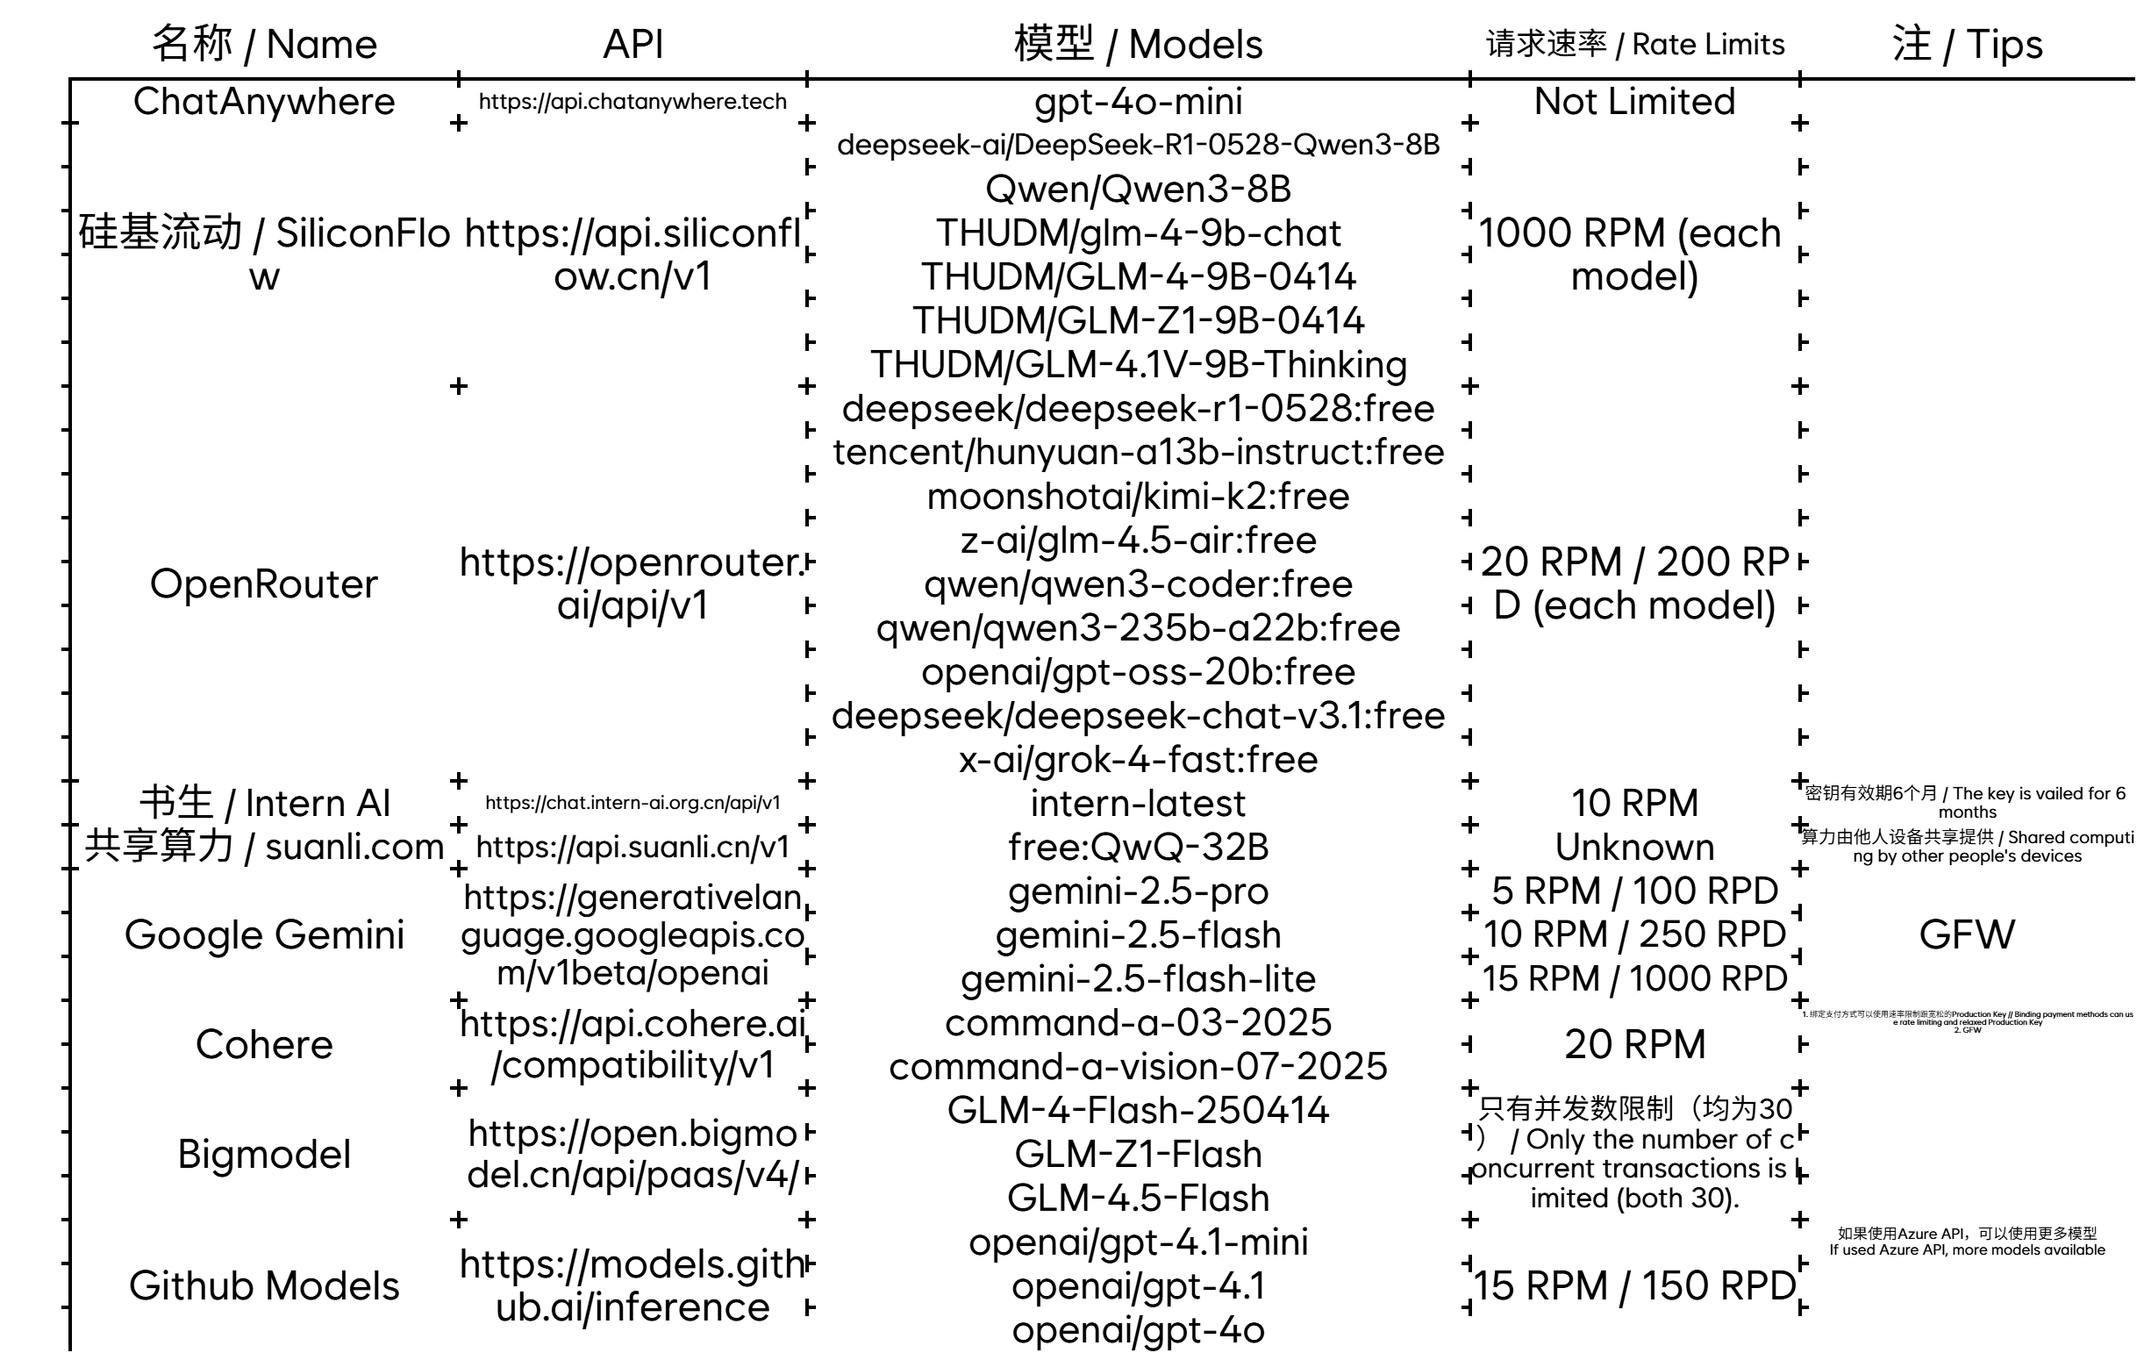
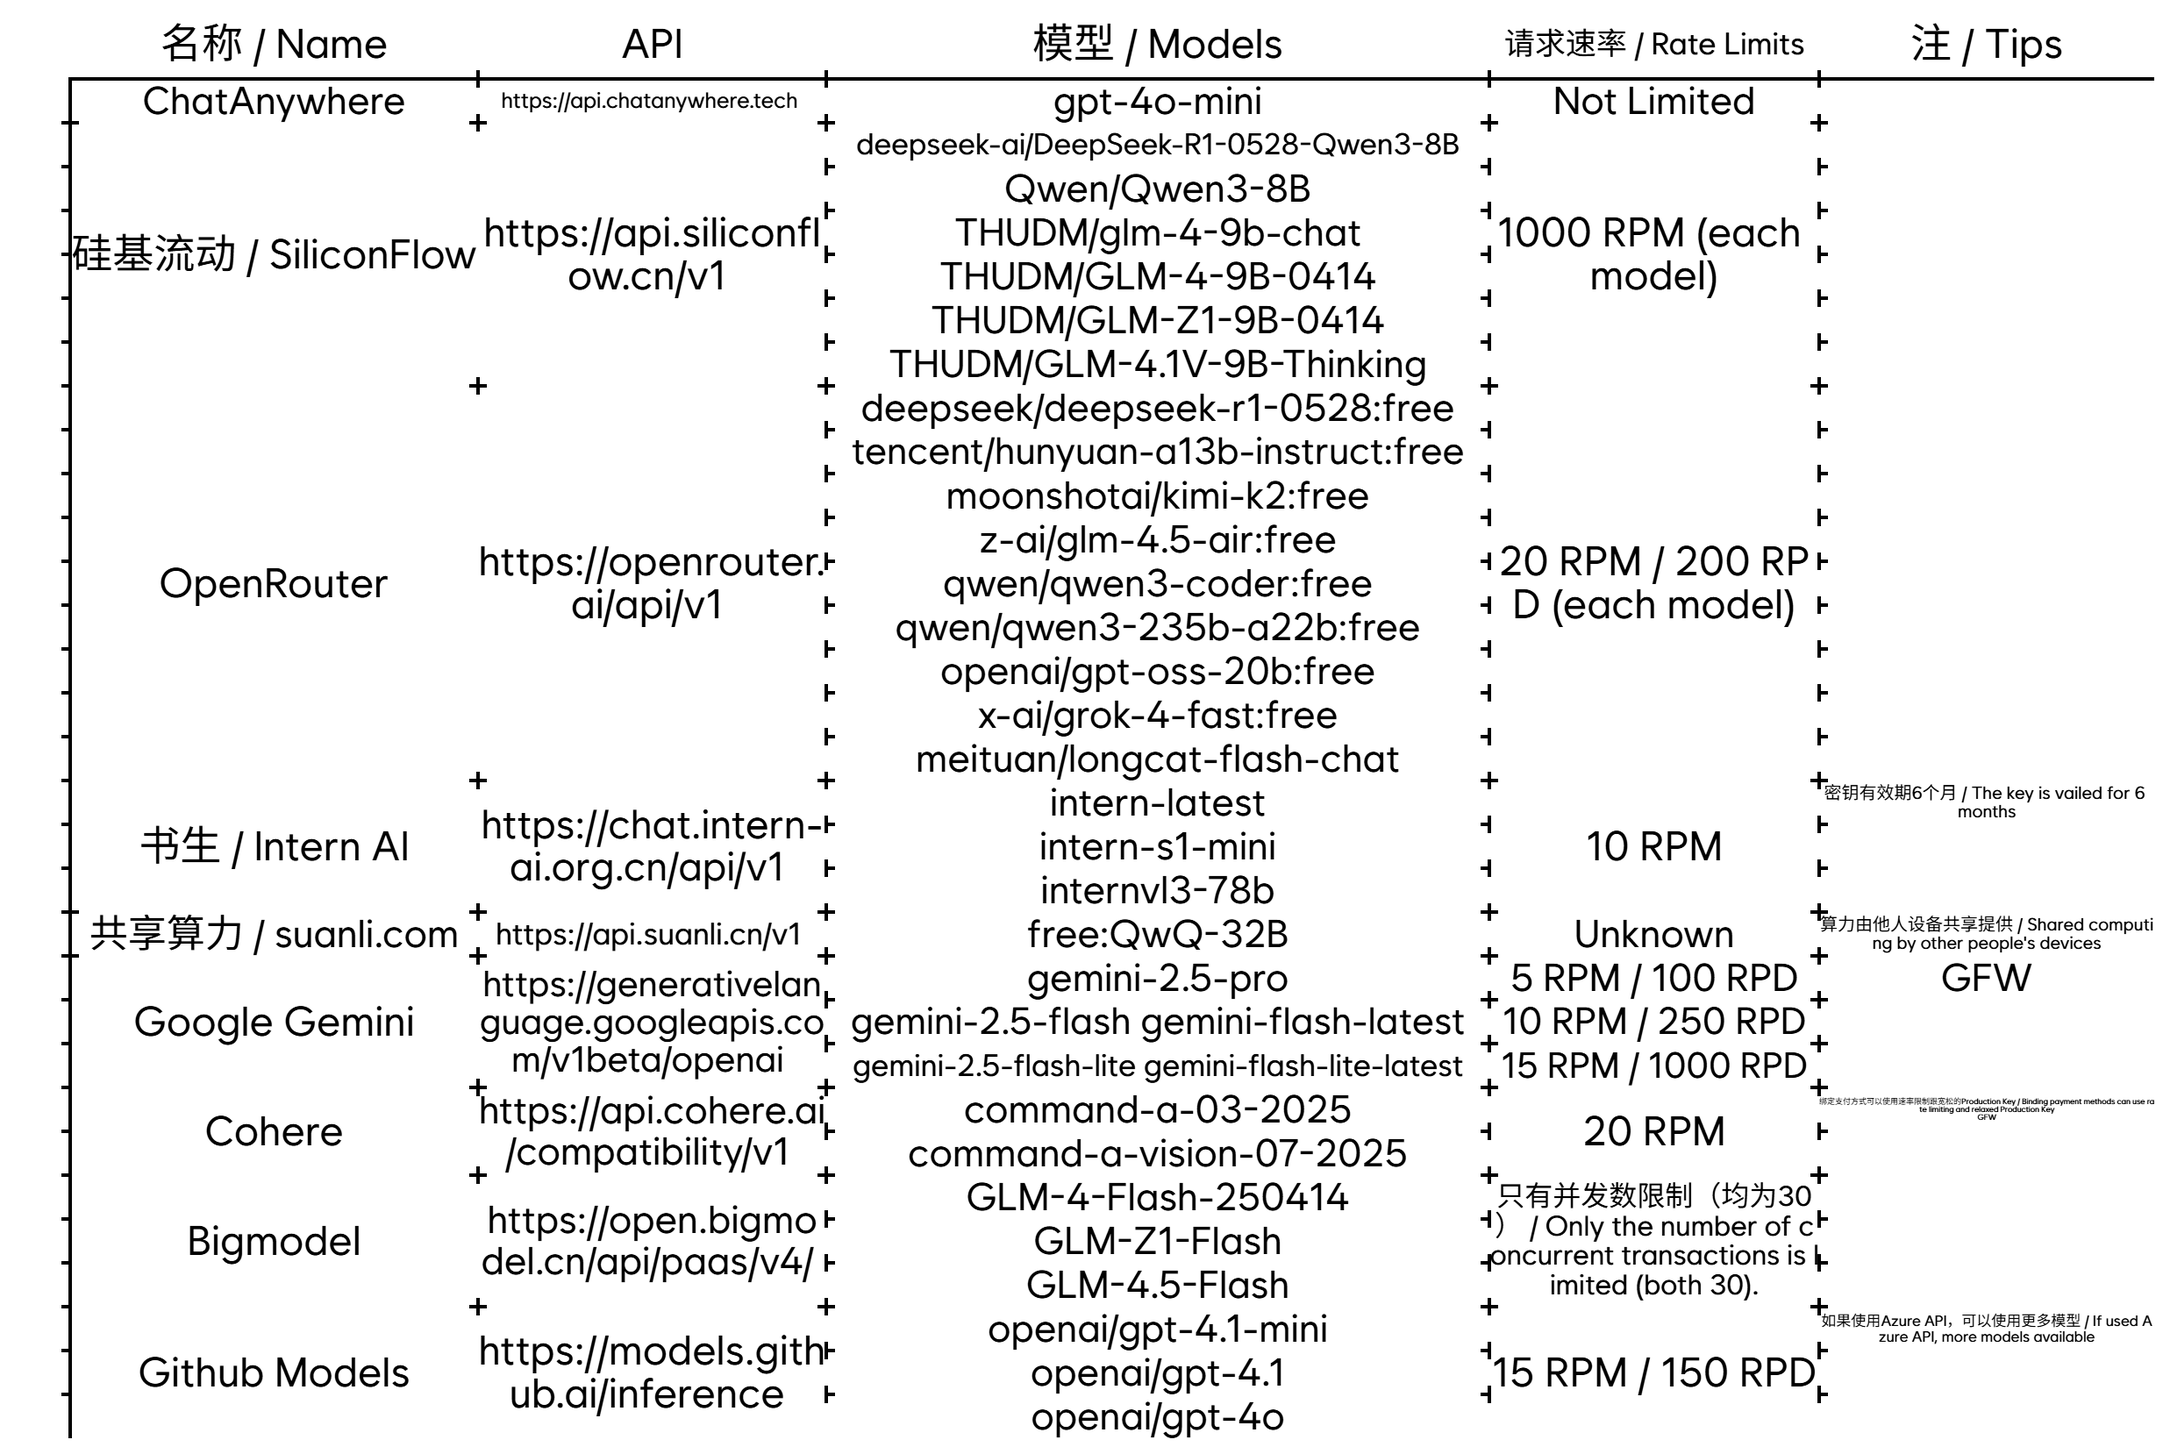
Add files via upload

diff --git a/README.md b/README.md
@@ -34,19 +34,19 @@ This table was generated by Gemini 2.5 Pro, Rendered by [Taple](https://ftz-tool
 
 ## Markdown table
 
-| 名称 / Name          | API                                                       | 模型 / Models                                                                                                                                                                                                                   | 请求速率 / Rate Limits                                                               | 后台 / Dashboard                                                                        | 注 / Tips                                                                                                            |
-|:------------------:|:--------------------------------------------------------- |:-----------------------------------------------------------------------------------------------------------------------------------------------------------------------------------------------------------------------------:|:--------------------------------------------------------------------------------:|:------------------------------------------------------------------------------------- |:------------------------------------------------------------------------------------------------------------------- |
-| ChatAnywhere       | `https://api.chatanywhere.tech`                           | `gpt-4o-mini`                                                                                                                                                                                                                 | Not Limited                                                                      | `https://api.chatanywhere.org/`                                                       |                                                                                                                     |
-| 硅基流动 / SiliconFlow | `https://api.siliconflow.cn/v1`                           | `deepseek-ai/DeepSeek-R1-0528-Qwen3-8B` `Qwen/Qwen3-8B`  `THUDM/glm-4-9b-chat``THUDM/GLM-4-9B-0414``THUDM/GLM-Z1-9B-0414` `THUDM/GLM-4.1V-9B-Thinking`                                                                        | 1000 RPM (each model)                                                            | `https://cloud.siliconflow.cn/bills`                                                  |                                                                                                                     |
-| OpenRouter         | `https://openrouter.ai/api/v1`                            | `deepseek/deepseek-r1-0528:free` `tencent/hunyuan-a13b-instruct:free` `moonshotai/kimi-k2:free` `z-ai/glm-4.5-air:free` `qwen/qwen3-coder:free` `qwen/qwen3-235b-a22b:free` `openai/gpt-oss-20b:free` `x-ai/grok-4-fast:free` | 20 RPM / 200 RPD (each model)                                                    | `https://openrouter.ai/activity`                                                      |                                                                                                                     |
-| 书生 / Intern AI     | `https://chat.intern-ai.org.cn/api/v1`                    | `intern-latest`                                                                                                                                                                                                               | 10 RPM                                                                           | `https://internlm.intern-ai.org.cn/api/callDetail`                                    | 密钥有效期6个月 / The key is vailed for 6 months                                                                           |
-| 共享算力 / suanli.com  | `https://api.suanli.cn/v1`                                | `free:QwQ-32B`                                                                                                                                                                                                                | Unknown                                                                          | `https://api.suanli.cn/detail`                                                        | 算力由他人设备共享提供 / Shared computing by other people's devices                                                            |
-| Google Gemini      | `https://generativelanguage.googleapis.com/v1beta/openai` | `gemini-2.5-pro`                                                                                                                                                                                                              | 5 RPM / 100 RPD                                                                  | `https://aistudio.google.com/usage` | GFW                                                                                                                 |
-| ↑                  | ↑                                                         | `gemini-2.5-flash`                                                                                                                                                                                                            | 10 RPM / 250 RPD                                                                 | ↑                                                                                     |                                                                                                                     |
-| ↑                  | ↑                                                         | `gemini-2.5-flash-lite`                                                                                                                                                                                                       | 15 RPM / 1000 RPD                                                                | ↑                                                                                     |                                                                                                                     |
-| Cohere             | `https://api.cohere.ai/compatibility/v1`                  | `command-a-03-2025` `command-a-vision-07-2025`                                                                                                                                                                                | 20 RPM                                                                           | `https://dashboard.cohere.com/billing`                                                | 绑定支付方式可以使用速率限制跟宽松的Production Key / Binding payment methods can use rate limiting and relaxed Production Key<br/>GFW |
-| Bigmodel           | `https://open.bigmodel.cn/api/paas/v4/`                   | `GLM-4-Flash-250414` `GLM-Z1-Flash` `GLM-4.5-Flash`                                                                                                                                                                           | 只有并发数限制（均为30） / Only the number of concurrent transactions is limited (both 30). | ?                                                                                     |                                                                                                                     |
-| Github Models      | `https://models.github.ai/inference`                      | `openai/gpt-4.1-mini` `openai/gpt-4.1` `openai/gpt-4o`                                                                                                                                                                        | 15 RPM / 150 RPD                                                                 | ?                                                                                     | 如果使用Azure API，可以使用更多模型 / If used Azure API, more models available                                                   |
+| 名称 / Name          | API                                                       | 模型 / Models                                                                                                                                                                                                                                                | 请求速率 / Rate Limits                                                               | 后台 / Dashboard                                     | 注 / Tips                                                                                                            |
+|:------------------:|:--------------------------------------------------------- |:----------------------------------------------------------------------------------------------------------------------------------------------------------------------------------------------------------------------------------------------------------:|:--------------------------------------------------------------------------------:|:-------------------------------------------------- |:------------------------------------------------------------------------------------------------------------------- |
+| ChatAnywhere       | `https://api.chatanywhere.tech`                           | `gpt-4o-mini`                                                                                                                                                                                                                                              | Not Limited                                                                      | `https://api.chatanywhere.org/`                    |                                                                                                                     |
+| 硅基流动 / SiliconFlow | `https://api.siliconflow.cn/v1`                           | `deepseek-ai/DeepSeek-R1-0528-Qwen3-8B` `Qwen/Qwen3-8B`  `THUDM/glm-4-9b-chat``THUDM/GLM-4-9B-0414``THUDM/GLM-Z1-9B-0414` `THUDM/GLM-4.1V-9B-Thinking`                                                                                                     | 1000 RPM (each model)                                                            | `https://cloud.siliconflow.cn/bills`               |                                                                                                                     |
+| OpenRouter         | `https://openrouter.ai/api/v1`                            | `deepseek/deepseek-r1-0528:free` `tencent/hunyuan-a13b-instruct:free` `moonshotai/kimi-k2:free` `z-ai/glm-4.5-air:free` `qwen/qwen3-coder:free` `qwen/qwen3-235b-a22b:free` `openai/gpt-oss-20b:free` `x-ai/grok-4-fast:free` `meituan/longcat-flash-chat` | 20 RPM / 200 RPD (each model)                                                    | `https://openrouter.ai/activity`                   |                                                                                                                     |
+| 书生 / Intern AI     | `https://chat.intern-ai.org.cn/api/v1`                    | `intern-latest` `intern-s1-mini` `internvl3-78b`                                                                                                                                                                                                           | 10 RPM                                                                           | `https://internlm.intern-ai.org.cn/api/callDetail` | 密钥有效期6个月 / The key is vailed for 6 months                                                                           |
+| 共享算力 / suanli.com  | `https://api.suanli.cn/v1`                                | `free:QwQ-32B`                                                                                                                                                                                                                                             | Unknown                                                                          | `https://api.suanli.cn/detail`                     | 算力由他人设备共享提供 / Shared computing by other people's devices                                                            |
+| Google Gemini      | `https://generativelanguage.googleapis.com/v1beta/openai` | `gemini-2.5-pro`                                                                                                                                                                                                                                           | 5 RPM / 100 RPD                                                                  | `https://aistudio.google.com/usage`                | GFW                                                                                                                 |
+| ↑                  | ↑                                                         | `gemini-2.5-flash` `gemini-flash-latest`                                                                                                                                                                                                                   | 10 RPM / 250 RPD                                                                 | ↑                                                  |                                                                                                                     |
+| ↑                  | ↑                                                         | `gemini-2.5-flash-lite` `gemini-flash-lite-latest`                                                                                                                                                                                                         | 15 RPM / 1000 RPD                                                                | ↑                                                  |                                                                                                                     |
+| Cohere             | `https://api.cohere.ai/compatibility/v1`                  | `command-a-03-2025` `command-a-vision-07-2025`                                                                                                                                                                                                             | 20 RPM                                                                           | `https://dashboard.cohere.com/billing`             | 绑定支付方式可以使用速率限制跟宽松的Production Key / Binding payment methods can use rate limiting and relaxed Production Key<br/>GFW |
+| Bigmodel           | `https://open.bigmodel.cn/api/paas/v4/`                   | `GLM-4-Flash-250414` `GLM-Z1-Flash` `GLM-4.5-Flash`                                                                                                                                                                                                        | 只有并发数限制（均为30） / Only the number of concurrent transactions is limited (both 30). | ?                                                  |                                                                                                                     |
+| Github Models      | `https://models.github.ai/inference`                      | `openai/gpt-4.1-mini` `openai/gpt-4.1` `openai/gpt-4o`                                                                                                                                                                                                     | 15 RPM / 150 RPD                                                                 | ?                                                  | 如果使用Azure API，可以使用更多模型 / If used Azure API, more models available                                                   |
 
 ## asak
 
